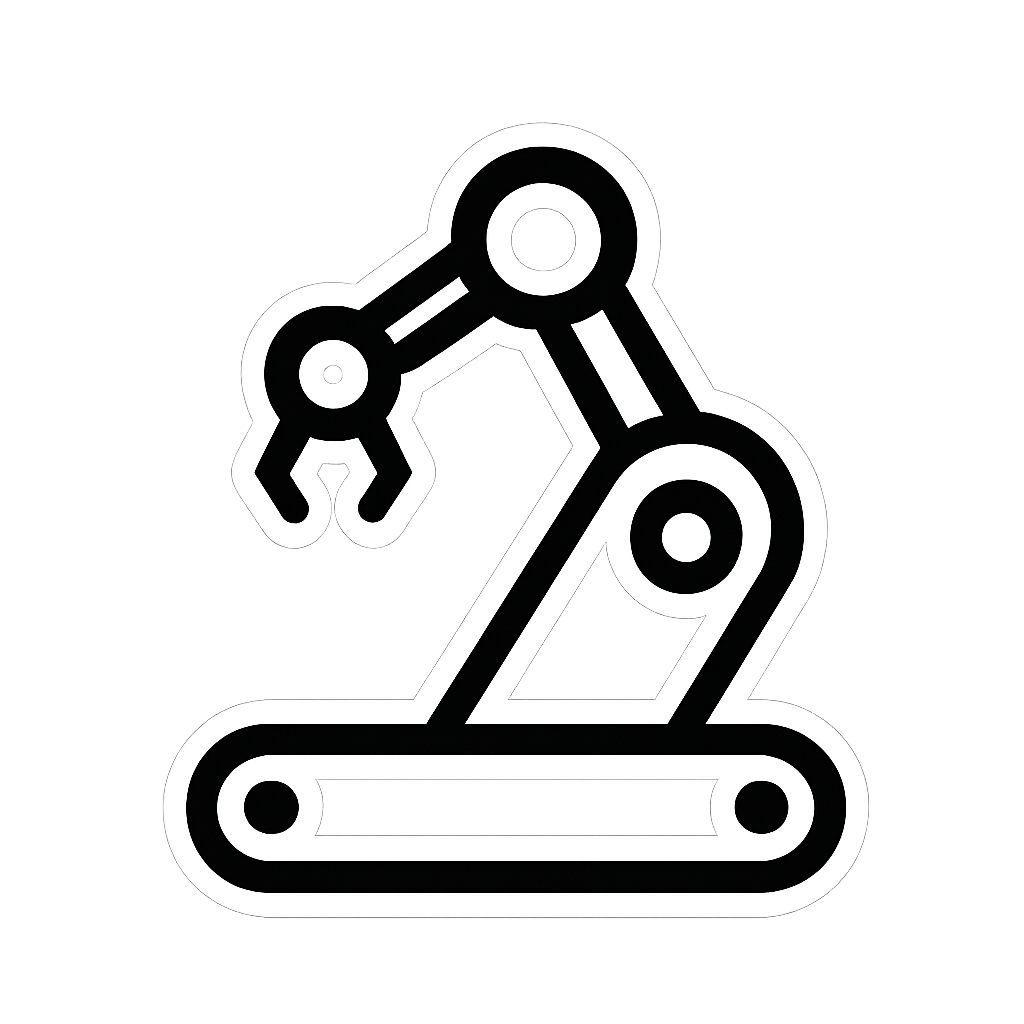
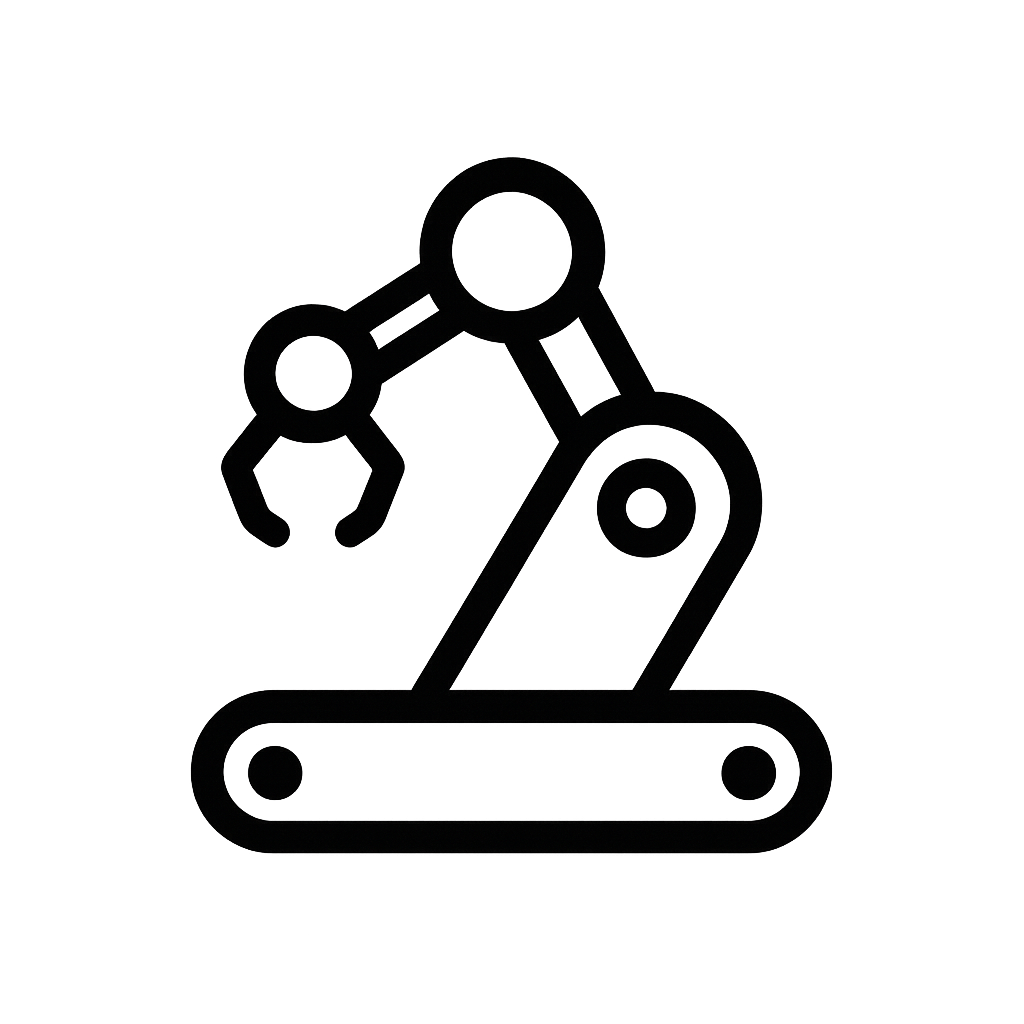
update tile interaction

Changed region(s): [[0.1562, 0.125, 0.8438, 0.875]]

diff --git a/src/App.js b/src/App.js
@@ -11,30 +11,45 @@ function ScrollToTop() {
   const { pathname, hash } = useLocation();
 
   useEffect(() => {
-    // If we have a hash, scroll directly to it without going to top first
-    if (hash === '#projects') {
-      setTimeout(() => {
+    // Small delay to ensure DOM is ready
+    const timer = setTimeout(() => {
+      // Check if we're returning to home from a project page
+      const returnToHome = sessionStorage.getItem('returnToHome') === 'true';
+      
+      if (returnToHome && pathname === '/') {
+        sessionStorage.removeItem('returnToHome');
+        
+        // Scroll to the bottom of the page (distance 0px from bottom of viewing pane to bottom of page)
+        const maxScrollPosition = document.documentElement.scrollHeight - window.innerHeight;
+        window.scrollTo({ 
+          top: maxScrollPosition, 
+          left: 0, 
+          behavior: 'instant' 
+        });
+      } else if (hash === '#projects' && pathname === '/') {
+        // Handle hash navigation to projects section
         const section = document.getElementById('projects');
         if (section) {
           const elementPosition = section.getBoundingClientRect().top + window.pageYOffset;
           const offsetPosition = elementPosition + 300;
           window.scrollTo({ top: offsetPosition, behavior: 'instant' });
         }
-      }, 0);
-    } else if (hash === '#experience') {
-      setTimeout(() => {
+      } else if (hash === '#experience' && pathname === '/') {
+        // Handle hash navigation to experience section
         const section = document.getElementById('experience');
         if (section) {
           section.scrollIntoView({ behavior: 'instant' });
         }
-      }, 0);
-    } else if (!hash && pathname !== '/') {
-      // Only scroll to top if there's no hash and we're navigating to a non-home page
-      window.scrollTo({ top: 100, left: 0, behavior: 'instant' });
-    } else if (!hash && pathname === '/') {
-      // Navigating to home page without hash - scroll to top
-      window.scrollTo({ top: 0, left: 0, behavior: 'instant' });
-    }
+      } else if (!hash && pathname !== '/') {
+        // Navigating to a project page - scroll to 90px
+        window.scrollTo({ top: 90, left: 0, behavior: 'instant' });
+      } else if (!hash && pathname === '/') {
+        // Navigating to home page without hash - scroll to top
+        window.scrollTo({ top: 0, left: 0, behavior: 'instant' });
+      }
+    }, 0);
+
+    return () => clearTimeout(timer);
   }, [pathname, hash]);
 
   return null;
@@ -138,12 +153,14 @@ function App() {
   const [loading, setLoading] = useState(true);
 
   useEffect(() => {
-    // Hide loading screen after 2 seconds
+    // Hide loading screen after animation
     const timer = setTimeout(() => {
       setLoading(false);
-    }, 2000);
+    }, 1225);
 
-    return () => clearTimeout(timer);
+    return () => {
+      clearTimeout(timer);
+    };
   }, []);
 
   useEffect(() => {
@@ -186,7 +203,12 @@ function App() {
     <>
       {loading && (
         <div className="loading-screen">
-          <img src="/roboiconimg.png" alt="Loading" className="loading-logo" />
+          <div className="loading-content">
+            <img src="/roboiconimg.png" alt="Loading" className="loading-logo" />
+            <div className="loading-bar-container">
+              <div className="loading-bar"></div>
+            </div>
+          </div>
         </div>
       )}
       <Router>

diff --git a/src/pages/RubiksCubeProject.js b/src/pages/RubiksCubeProject.js
@@ -4,22 +4,26 @@ import rubiksDrawing from '../assets/rubiksdrawing.png';
 import rubiksAssembly from '../assets/rubiks_assembly7.png';
 
 function RubiksCubeProject() {
+  const handleBackClick = () => {
+    sessionStorage.setItem('returnToHome', 'true');
+  };
+
   return (
     <div className="project-detail-page">
       <div className="project-detail-header">
-        <Link to="/#projects" className="back-button">Back to Projects</Link>
+        <Link to="/#projects" className="back-button" onClick={handleBackClick}>Back to Projects</Link>
         <h1>Rubik's Cube Robot</h1>
       </div>
       
       <div className="project-detail-content">
         <div className="project-hero-image">
-          <img src={rubiksImage} alt="Rubik's Cube Robot" />
+          <img src={rubiksImage} alt="Rubik's Cube Robot" loading="eager" />
         </div>
         
         <div className="project-section">
           <h2>Overview</h2>
           <p className="project-description">
-            Fully modular cube-solving robot with average solve times just over a second.
+            Fully modular, autonmous cube-solving robot.
           </p>
           <p>
             This project combines mechanical design, computer vision, and algorithmic problem-solving 
@@ -34,11 +38,11 @@ function RubiksCubeProject() {
           <div className="stats-grid">
             <div className="stat-card">
               <div className="stat-value">1s</div>
-              <div className="stat-label">Average Solve Time</div>
+              <div className="stat-label">Solve Times</div>
             </div>
             <div className="stat-card">
               <div className="stat-value">&lt;20</div>
-              <div className="stat-label">Face Turns
+              <div className="stat-label">Rotations Per Solve
               </div>
             </div>
           </div>
@@ -72,8 +76,8 @@ function RubiksCubeProject() {
         <div className="project-section">
           <h2>Design & Assembly</h2>
           <div className="project-gallery">
-            <img src={rubiksDrawing} alt="Rubik's Cube Robot Design" />
-            <img src={rubiksAssembly} alt="Rubik's Cube Robot Assembly" />
+            <img src={rubiksDrawing} alt="Rubik's Cube Robot Design" loading="lazy" />
+            <img src={rubiksAssembly} alt="Rubik's Cube Robot Assembly" loading="lazy" />
           </div>
         </div>
         
@@ -88,7 +92,7 @@ function RubiksCubeProject() {
         </div>
         
         <div className="project-footer">
-          <Link to="/#projects" className="back-button">Back to Projects</Link>
+          <Link to="/#projects" className="back-button" onClick={handleBackClick}>Back to Projects</Link>
         </div>
       </div>
     </div>

diff --git a/src/pages/Home.js b/src/pages/Home.js
@@ -294,7 +294,9 @@ function Home() {
           <div className="container">
             <h2 className="section-title">Featured Projects</h2>
             <div className="projects-grid">
-              <div className="project-card" onClick={() => navigate('/projects/rubiks-cube')}>
+              <div className="project-card" onClick={() => {
+                navigate('/projects/rubiks-cube');
+              }}>
                 <div className="project-image" style={{ backgroundImage: `url(${rubiksImage})`, backgroundSize: 'cover', backgroundPosition: 'center' }}>
                 </div>
                 <div className="project-content">
@@ -316,7 +318,9 @@ function Home() {
                 </div>
               </div>
 
-              <div className="project-card" onClick={() => navigate('/projects/financial-derivatives')}>
+              <div className="project-card" onClick={() => {
+                navigate('/projects/financial-derivatives');
+              }}>
                 <div className="project-image" style={{ backgroundImage: `url(${srprojImage})`, backgroundSize: 'cover', backgroundPosition: 'center 35%' }}>
                 </div>
                 <div className="project-content">
@@ -336,7 +340,9 @@ function Home() {
                 </div>
               </div>
 
-              <div className="project-card" onClick={() => navigate('/projects/fitbox')}>
+              <div className="project-card" onClick={() => {
+                navigate('/projects/fitbox');
+              }}>
                 <div className="project-image" style={{ backgroundImage: `url(${fitboxImage})`, backgroundSize: 'contain', backgroundPosition: 'center', backgroundColor: 'white', backgroundRepeat: 'no-repeat' }}>
                 </div>
                 <div className="project-content">

diff --git a/src/App.css b/src/App.css
@@ -25,7 +25,7 @@ html {
   align-items: center;
   justify-content: center;
   z-index: 9999;
-  animation: fadeOut 0.5s ease-out 1.5s forwards;
+  animation: fadeOut 0.225s ease-out 1.0s forwards;
 }
 
 @keyframes fadeOut {
@@ -35,8 +35,15 @@ html {
   }
 }
 
+.loading-content {
+  display: flex;
+  flex-direction: column;
+  align-items: center;
+  gap: 2rem;
+}
+
 .loading-logo {
-  width: 250px;
+  width: 150px;
   height: auto;
   animation: pulse 1.5s ease-in-out infinite;
 }
@@ -44,11 +51,38 @@ html {
 @keyframes pulse {
   0%, 100% {
     transform: scale(1);
-    opacity: 1;
   }
   50% {
     transform: scale(1.1);
-    opacity: 0.8;
+  }
+}
+
+.loading-bar-container {
+  width: 150px;
+  height: 5px;
+  background: #e0e0e0;
+  border-radius: 10px;
+  overflow: hidden;
+  box-shadow: 0 2px 4px rgba(0, 0, 0, 0.1);
+  will-change: transform;
+}
+
+.loading-bar {
+  width: 100%;
+  height: 100%;
+  background: #000000;
+  border-radius: 10px;
+  transform: translateX(-100%);
+  will-change: transform;
+  animation: fillBar 0.9s linear forwards;
+}
+
+@keyframes fillBar {
+  from {
+    transform: translateX(-100%);
+  }
+  to {
+    transform: translateX(0);
   }
 }
 

diff --git a/src/pages/FinancialDerivativesProject.js b/src/pages/FinancialDerivativesProject.js
@@ -3,10 +3,14 @@ import srprojImage from '../assets/srproj.png';
 import blackscholesImage from '../assets/blackscholes.png';
 
 function FinancialDerivativesProject() {
+  const handleBackClick = () => {
+    sessionStorage.setItem('returnToHome', 'true');
+  };
+
   return (
     <div className="project-detail-page">
       <div className="project-detail-header">
-        <Link to="/#projects" className="back-button">Back to Projects</Link>
+        <Link to="/#projects" className="back-button" onClick={handleBackClick}>Back to Projects</Link>
         <h1>Pricing Financial Derivatives</h1>
       </div>
       
@@ -66,7 +70,7 @@ function FinancialDerivativesProject() {
         </div>
         
         <div className="project-footer">
-          <Link to="/#projects" className="back-button">Back to Projects</Link>
+          <Link to="/#projects" className="back-button" onClick={handleBackClick}>Back to Projects</Link>
         </div>
       </div>
     </div>

diff --git a/src/pages/FitBoxProject.js b/src/pages/FitBoxProject.js
@@ -2,10 +2,14 @@ import { Link } from 'react-router-dom';
 import fitboxImage from '../assets/FitBoxlogo.png';
 
 function FitBoxProject() {
+  const handleBackClick = () => {
+    sessionStorage.setItem('returnToHome', 'true');
+  };
+
   return (
     <div className="project-detail-page">
       <div className="project-detail-header">
-        <Link to="/#projects" className="back-button">Back to Projects</Link>
+        <Link to="/#projects" className="back-button" onClick={handleBackClick}>Back to Projects</Link>
         <h1>FitBox</h1>
       </div>
       
@@ -60,7 +64,7 @@ function FitBoxProject() {
         </div>
         
         <div className="project-footer">
-          <Link to="/#projects" className="back-button">Back to Projects</Link>
+          <Link to="/#projects" className="back-button" onClick={handleBackClick}>Back to Projects</Link>
         </div>
       </div>
     </div>
